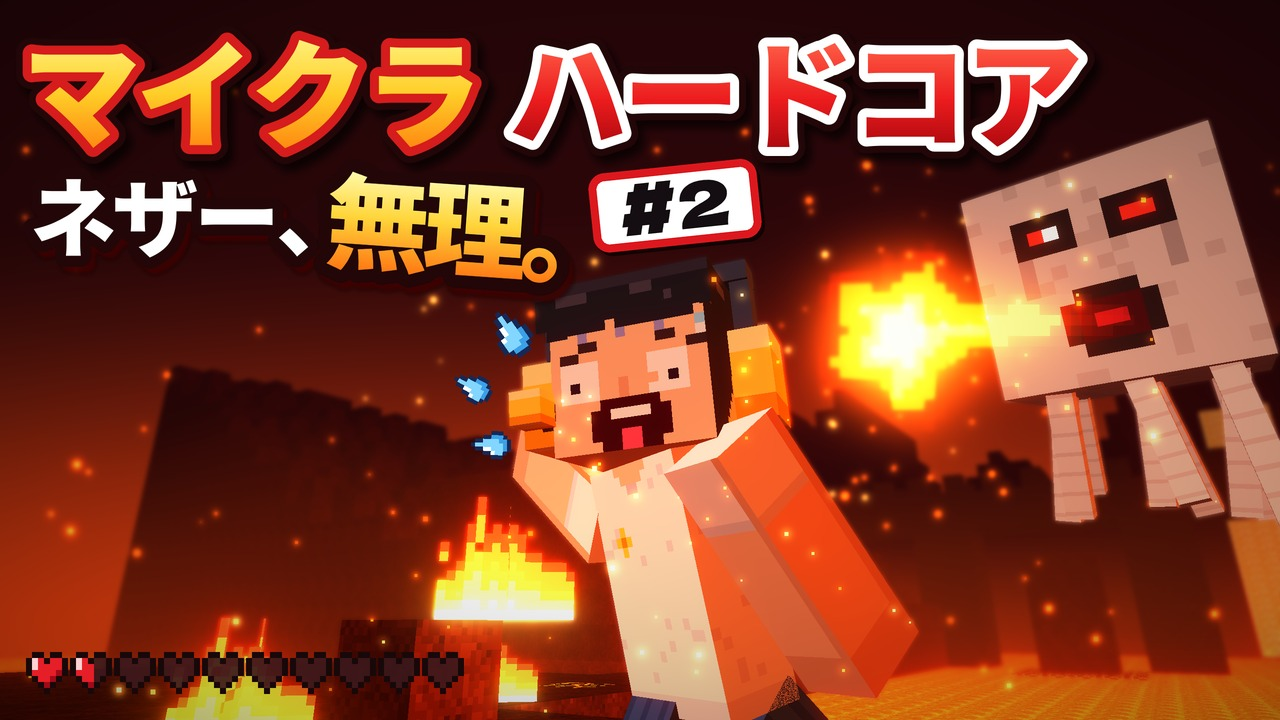
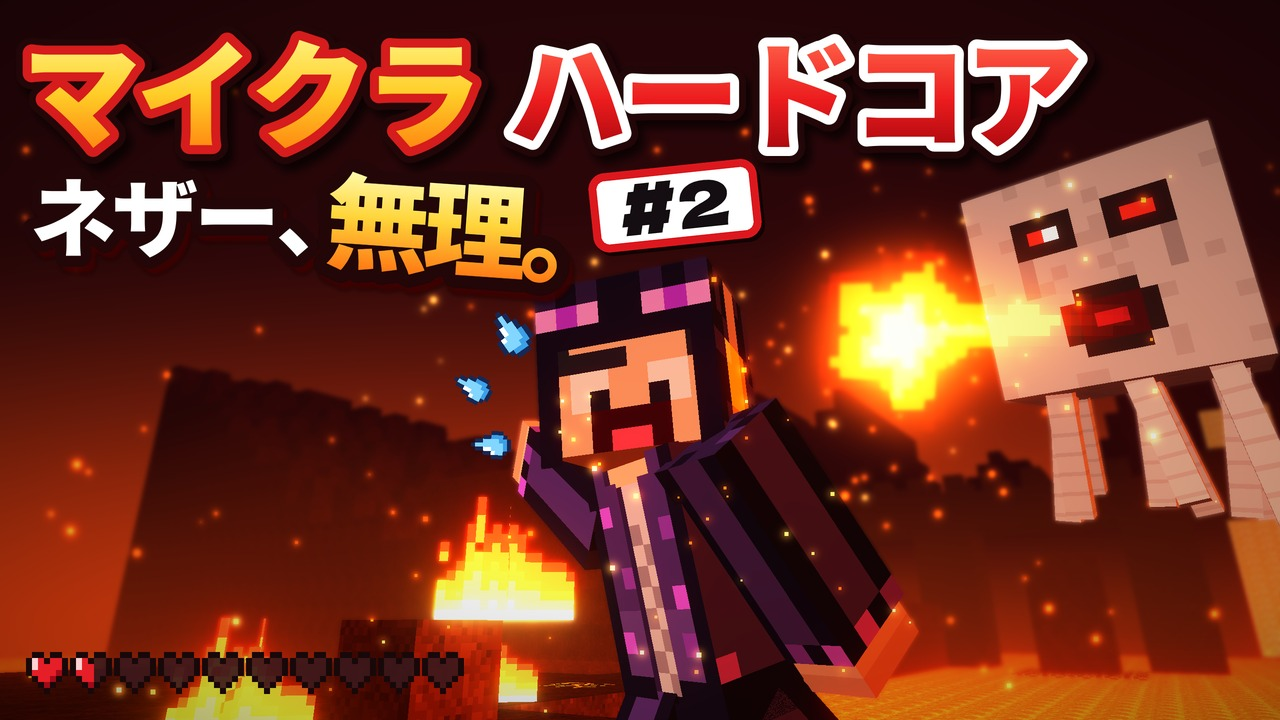
#2 のサムネのキャラも、チャンネルのマイクラスキン（エンダーパーカー）に変更
- #2 はスキンを着せて、顔の正面だけ叫び顔（スキンと同じ 8×8 のドット絵 SKIN_FACE_SCREAM）に替える
- スキン画像の場所を lib/skin.py の CHANNEL_SKIN にまとめ、#2・#3・アイコンで共通に
- 使わなくなった白Tのキャラ・ヘッドセット・剣のテクスチャを削除（#3・アイコン・スキンの出力は変わらない）

Claude-Session: https://claude.ai/code/session_01ARLGywnTjgvutUHsht7TWK

Changed region(s): [[0.375, 0.3667, 0.7188, 1.0]]

diff --git a/sekunuyu-thumbnail/lib/textures.py b/sekunuyu-thumbnail/lib/textures.py
@@ -135,182 +135,30 @@ def fire(seed=9):
 
 
 # ---------------------------------------------------------------- せくぬゆ（プレイヤー）
+# キャラはチャンネルのマイクラスキン（lib/skin.py の CHANNEL_SKIN）を着せる。ここには表情だけ置く
 
 SKIN = {
-    "h": hexc("#1C1820"), "H": hexc("#3E3848"), "g": hexc("#2B2533"),
-    "s": hexc("#F2C29B"), "S": hexc("#D9A07A"), "l": hexc("#FFDDBE"), "n": hexc("#C98A66"),
-    "w": hexc("#FFFFFF"), "k": hexc("#14101A"), "b": hexc("#2A1C1C"),
-    "m": hexc("#2E060C"), "t": hexc("#FFFFFF"), "r": hexc("#F0506A"),
-    "d": hexc("#8FD8FF"), "D": hexc("#E8F8FF"), "p": hexc("#8A92D0"),
-    "T": hexc("#F7F7F7"), "u": hexc("#D9DCE6"), "U": hexc("#B9BDCB"),
-    "j": hexc("#2E3F6E"), "J": hexc("#22305A"), "o": hexc("#3C3C46"), "O": hexc("#E6E6EA"),
-    "y": hexc("#FFD23F"), "Y": hexc("#E08A1E"),
+    "h": hexc("#1C1820"), "s": hexc("#F2C29B"), "w": hexc("#FFFFFF"), "k": hexc("#14101A"),
+    "m": hexc("#2E060C"), "r": hexc("#F0506A"),
 }
 
-FACE_SCREAM = [
-    "hhhhhhhhhhhhhhhh",
-    "hhHhhhhhhhhhHhhh",
-    "hhhhhhhhhhhhhhhh",
-    "shhhhhshhhhhhhhs",
-    "ssspssspssspsssd",
-    "sssbbssssssbbssD",
-    "sbbsssssssssssbb",
-    "swwwwssssswwwwss",
-    "swwwwssssswwwwss",
-    "swkwwssSssswkwss",
-    "swwwwssSsswwwwss",
-    "sssssmmmmmmsssss",
-    "ssssmmttttmmssss",
-    "ssssmmmmmmmmssss",
-    "ssssmmmrrmmmssss",
-    "sssssmmrrmmsssss",
+# スキン（8×8 の顔）用の叫び顔。#2 でスキンの顔の正面だけをこれに替える（前髪・フードはスキンのまま）
+SKIN_FACE_SCREAM = [
+    "hhhhhhhh",
+    "hhhhhhhh",
+    "hssssssh",
+    "hhhhsssh",
+    "swwsswws",
+    "swksskws",
+    "ssmmmmss",
+    "ssmrrmss",
 ]
-
-HEAD_SIDE = [
-    "hhhhhhhhhhhhhhhh",
-    "hhhHhhhhhhhhhhhh",
-    "hhhhhhhhhHhhhhhh",
-    "hhhhhhhhhhhhhhhh",
-    "hhhhhhhhhhhhhhhs",
-    "hhhhhhhhhhhhhsss",
-    "hhhhhhhhhhhhssss",
-    "hhhhhhhhhhhsssss",
-    "hhhhhhhhhhssssss",
-    "hhhhhhhhhhssssss",
-    "hhhhhhhhhsssssss",
-    "hhhhhhhhssssssss",
-    "hhhhhhhsssssssss",
-    "hhhhhhssssssSsss",
-    "hhhhhsssssssssss",
-    "hhhhssssssssssss",
-]
-
-
-def player_textures(expression=FACE_SCREAM):
-    face = from_strings(expression, SKIN)
-    side_l = from_strings(HEAD_SIDE, SKIN)          # +x 面（キャラの左）：右側が顔側
-    side_r = side_l[:, ::-1].copy()                 # -x 面（キャラの右）：左側が顔側
-    hair = np.zeros((16, 16, 4), np.uint8)
-    hair[...] = SKIN["h"]
-    rng = np.random.default_rng(3)
-    hl = rng.random((16, 16)) < 0.12
-    hair[hl] = SKIN["H"]
-    back = hair.copy()
-    back[13:] = SKIN["s"]
-    back[13:, 0:3] = SKIN["h"]
-    back[13:, 13:] = SKIN["h"]
-    chin = np.zeros((16, 16, 4), np.uint8)
-    chin[...] = SKIN["S"]
-    head = {"front": face, "back": back, "left": side_l, "right": side_r, "top": hair, "bottom": chin}
-
-    # 髪のボリューム（帽子レイヤー）：顔の部分は透明
-    hat_front = np.zeros((16, 16, 4), np.uint8)
-    fringe = [4, 5, 5, 4, 4, 3, 3, 3, 3, 4, 3, 3, 2, 2, 3, 4]  # 前髪の長さ（列ごと）
-    for x, n in enumerate(fringe):
-        hat_front[:n, x] = SKIN["h"]
-        hat_front[0, x] = SKIN["g"]
-    hat_front[1, 2:5] = SKIN["H"]
-    hat_front[1, 9:11] = SKIN["H"]
-    hat_side = np.zeros((16, 16, 4), np.uint8)
-    for x in range(16):
-        n = 6 if x < 10 else 4
-        hat_side[:n, x] = SKIN["h"]
-    hat_side[1, 3:6] = SKIN["H"]
-    hat_side_r = hat_side[:, ::-1].copy()
-    hat_back = np.zeros((16, 16, 4), np.uint8)
-    hat_back[:12] = SKIN["h"]
-    hat_back[2, 4:8] = SKIN["H"]
-    hat_top = hair.copy()
-    hat_top[3, 4:9] = SKIN["H"]
-    hat = {"front": hat_front, "back": hat_back, "left": hat_side, "right": hat_side_r, "top": hat_top}
-
-    # 胴体（白T）
-    def tee(w, h, front=False):
-        t = np.zeros((h, w, 4), np.uint8)
-        t[...] = SKIN["T"]
-        rng2 = np.random.default_rng(w * 31 + h)
-        t[rng2.random((h, w)) < 0.08] = SKIN["u"]
-        t[-2:] = SKIN["u"]
-        if front:
-            t[0, w // 2 - 3:w // 2 + 3] = SKIN["s"]
-            t[1, w // 2 - 2:w // 2 + 2] = SKIN["s"]
-            t[2, w // 2 - 1:w // 2 + 1] = SKIN["U"]
-            # 胸の小さなたんぽぽマーク
-            t[7, 4] = SKIN["y"]
-            t[6:9, 4] = SKIN["y"]
-            t[7, 3:6] = SKIN["y"]
-            t[7, 4] = SKIN["Y"]
-        return t
-
-    body = {"front": tee(16, 24, True), "back": tee(16, 24), "left": tee(8, 24), "right": tee(8, 24),
-            "top": tee(16, 8), "bottom": tee(16, 8)}
-
-    def arm(w, h):
-        t = np.zeros((h, w, 4), np.uint8)
-        t[...] = SKIN["s"]
-        t[:7] = SKIN["T"]
-        t[6] = SKIN["u"]
-        t[-4:] = SKIN["S"]
-        t[:, -1:] = SKIN["S"]
-        return t
-
-    arms = {k: arm(8, 24) for k in ("front", "back", "left", "right")}
-    arms["top"] = np.full((8, 8, 4), SKIN["T"], np.uint8)
-    arms["bottom"] = np.full((8, 8, 4), SKIN["S"], np.uint8)
-
-    def leg(w, h):
-        t = np.zeros((h, w, 4), np.uint8)
-        t[...] = SKIN["j"]
-        t[:, ::3] = SKIN["J"]
-        t[-5:] = SKIN["o"]
-        t[-1:] = SKIN["O"]
-        return t
-
-    legs = {k: leg(8, 24) for k in ("front", "back", "left", "right")}
-    legs["top"] = np.full((8, 8, 4), SKIN["j"], np.uint8)
-    legs["bottom"] = np.full((8, 8, 4), SKIN["O"], np.uint8)
-    return {"head": head, "hat": hat, "body": body, "arm": arms, "leg": legs}
 
 
 def solid(color, w=4, h=4):
     t = np.zeros((h, w, 4), np.uint8)
     t[...] = hexc(color)
     return t
-
-
-def headset_textures():
-    cup = solid("#FFD23F")
-    cup[0, :] = hexc("#FFF0A0")
-    cup[-1, :] = hexc("#E08A1E")
-    band = solid("#34364A")
-    return {"cup": {k: cup for k in ("front", "back", "left", "right", "top", "bottom")},
-            "cup_in": {k: solid("#34364A") for k in ("front", "back", "left", "right", "top", "bottom")},
-            "band": {k: band for k in ("front", "back", "left", "right", "top", "bottom")}}
-
-
-SWORD = [
-    "...........kkkk.",
-    "..........kddDk.",
-    ".........kddDDk.",
-    "........kddDDk..",
-    ".......kddDDk...",
-    "......kddDDk....",
-    ".kk..kddDDk.....",
-    ".kgkkddDDk......",
-    "..kgkdDDk.......",
-    "...kgkDk........",
-    "...kbgkk........",
-    "..kbkkgk........",
-    ".kbk..kgk.......",
-    "kkk....kk.......",
-    "kk..............",
-    "................",
-]
-
-
-def sword_texture():
-    return from_strings(SWORD, {"k": hexc("#16232A"), "d": hexc("#4AEDD9"), "D": hexc("#B8FFF4"),
-                                "g": hexc("#2B8F86"), "b": hexc("#6B4A2A")})
 
 
 # ---------------------------------------------------------------- ガスト

diff --git a/sekunuyu-thumbnail/episodes/ep03_portal.py b/sekunuyu-thumbnail/episodes/ep03_portal.py
@@ -2,7 +2,6 @@
 from __future__ import annotations
 
 import math
-import os
 
 import numpy as np
 from PIL import Image
@@ -12,7 +11,7 @@ from lib import overlay as ov
 from lib import textures as TX
 from lib.models import Pose, player
 from lib.post import bloom, blur, depth_of_field, grade, tonemap
-from lib.skin import load_skin, skin_textures
+from lib.skin import CHANNEL_SKIN, load_skin, skin_textures
 from lib.voxel import Camera, Face, Lights, render
 from lib.world3d import DIRT, GRASS, LEAVES, LOG, OBSIDIAN, PLANKS, STONE, VoxelWorld
 
@@ -23,9 +22,6 @@ W, H = 1280, 720
 PORTAL_X, PORTAL_Z = 2, -6
 PORTAL_IN = (PORTAL_X + 1, PORTAL_X + 3, 1, 4)   # 渦の範囲 x0, x1, y0, y1
 SUN_DIR = np.array([0.12, 0.1, -1.0])             # 夕日の方向（キャラとゲートのあいだの奥・低い）
-# キャラはチャンネルのマイクラスキン（エンダーパーカー＋黄色いヘッドセット）をそのまま着せる
-SKIN = os.path.join(os.path.dirname(os.path.dirname(os.path.dirname(os.path.abspath(__file__)))),
-                    "sekunuyu-skin", "sekunuyu_skin.png")
 
 
 # ---------------------------------------------------------------- 地形
@@ -105,7 +101,8 @@ class Scene:
         self.cam = Camera((0.6, 1.4, 2.0), (0.6, 2.0, -2.0), 52, w, h)
         pose = Pose(yaw=-22, lean=4, head_yaw=30, head_pitch=4, head_roll=-4,
                     arm_r=(10, 8), arm_l=(-12, 88), leg_r=-6, leg_l=6)   # 左手でゲートを指さす
-        self.player_faces, self.pinfo = player(skin_textures(load_skin(SKIN)), None, None, (0, 0, 0), pose)
+        # キャラはチャンネルのマイクラスキン（エンダーパーカー＋黄色いヘッドセット）をそのまま着せる
+        self.player_faces, self.pinfo = player(skin_textures(load_skin(CHANNEL_SKIN)), None, None, (0, 0, 0), pose)
         x0, x1, y0, y1 = PORTAL_IN
         self.portal_c = np.array([(x0 + x1) / 2, (y0 + y1) / 2, PORTAL_Z + 0.5])
         sun_col = (1.15, 0.62, 0.32)

diff --git a/sekunuyu-thumbnail/episodes/ep02_nether.py b/sekunuyu-thumbnail/episodes/ep02_nether.py
@@ -12,6 +12,7 @@ from lib import overlay as ov
 from lib import textures as TX
 from lib.models import Pose, ghast, player
 from lib.post import bloom, blur, depth_of_field, grade, smoothstep, tonemap
+from lib.skin import CHANNEL_SKIN, load_skin, skin_textures
 from lib.voxel import Camera, Face, Lights, render
 from lib.world3d import BRICK, FALL, GLOW, LAVA, MAGMA, QUARTZ, RACK, VoxelWorld
 
@@ -115,8 +116,10 @@ class Scene:
                     arm_r=(-188, 58), arm_l=(26, 0), leg_r=-40, leg_l=35)
         self.ghast_pos = np.array([1.5, 7.3, -14.0])
         # 先にプレイヤーを置いて頭の位置を知る（ライトはあとで差し込む）
-        T, HS = TX.player_textures(), TX.headset_textures()
-        self.player_faces, self.pinfo = player(T, HS, None, (0, 0, 0), pose)
+        # キャラはチャンネルのマイクラスキン（エンダーパーカー）。顔の正面だけ叫び顔に替える
+        T = skin_textures(load_skin(CHANNEL_SKIN))
+        T["head"]["front"] = TX.from_strings(TX.SKIN_FACE_SCREAM, TX.SKIN)
+        self.player_faces, self.pinfo = player(T, None, None, (0, 0, 0), pose)
         gb, gm, gt = TX.ghast_textures()
         to_p = np.array([0.0, 1.6, 0.0]) - self.ghast_pos
         yaw = math.degrees(math.atan2(to_p[0], to_p[2]))

diff --git a/sekunuyu-icon/make_icon.py b/sekunuyu-icon/make_icon.py
@@ -25,7 +25,7 @@ from lib import overlay as ov  # noqa: E402
 from lib.fonts import BLACK, ensure_fonts  # noqa: E402
 from lib.models import Pose, player  # noqa: E402
 from lib.post import tonemap  # noqa: E402
-from lib.skin import load_skin, skin_textures  # noqa: E402
+from lib.skin import CHANNEL_SKIN, load_skin, skin_textures  # noqa: E402
 from lib.voxel import Camera, Lights, render  # noqa: E402
 
 SIZE = 800
@@ -33,9 +33,6 @@ SS = 2                       # 2倍で描いて縮める
 YELLOW = [(255, 236, 140), (255, 196, 40)]
 PURPLE = [(120, 70, 190), (40, 22, 70)]
 SPARK = [(194, 91, 255), (123, 59, 181), (236, 190, 255)]
-
-
-SKIN = os.path.join(ROOT, "sekunuyu-skin", "sekunuyu_skin.png")
 
 
 # ---------------------------------------------------------------- 背景
@@ -211,7 +208,7 @@ def options_sheet(icons: dict) -> Image.Image:
 
 def main():
     ensure_fonts()
-    skin = load_skin(SKIN)
+    skin = load_skin(CHANNEL_SKIN)
     T = skin_textures(skin)
     out = os.path.join(HERE, "output")
     os.makedirs(out, exist_ok=True)

diff --git a/sekunuyu-thumbnail/lib/skin.py b/sekunuyu-thumbnail/lib/skin.py
@@ -1,8 +1,14 @@
 """マイクラのスキン画像（64×64）の決まり（どのパーツが画像のどこにあるか）と、3D モデル用の切り分け。"""
 from __future__ import annotations
 
+import os
+
 import numpy as np
 from PIL import Image
+
+# チャンネルのマイクラスキン（エンダーパーカー＋黄色いヘッドセット）。サムネとアイコンのキャラはこれを着る
+CHANNEL_SKIN = os.path.join(os.path.dirname(os.path.dirname(os.path.dirname(os.path.abspath(__file__)))),
+                            "sekunuyu-skin", "sekunuyu_skin.png")
 
 # 各パーツのスキン画像上の位置（左上）と大きさ（幅, 高さ, 奥行き）。Minecraft の決まりどおり
 PARTS = {
